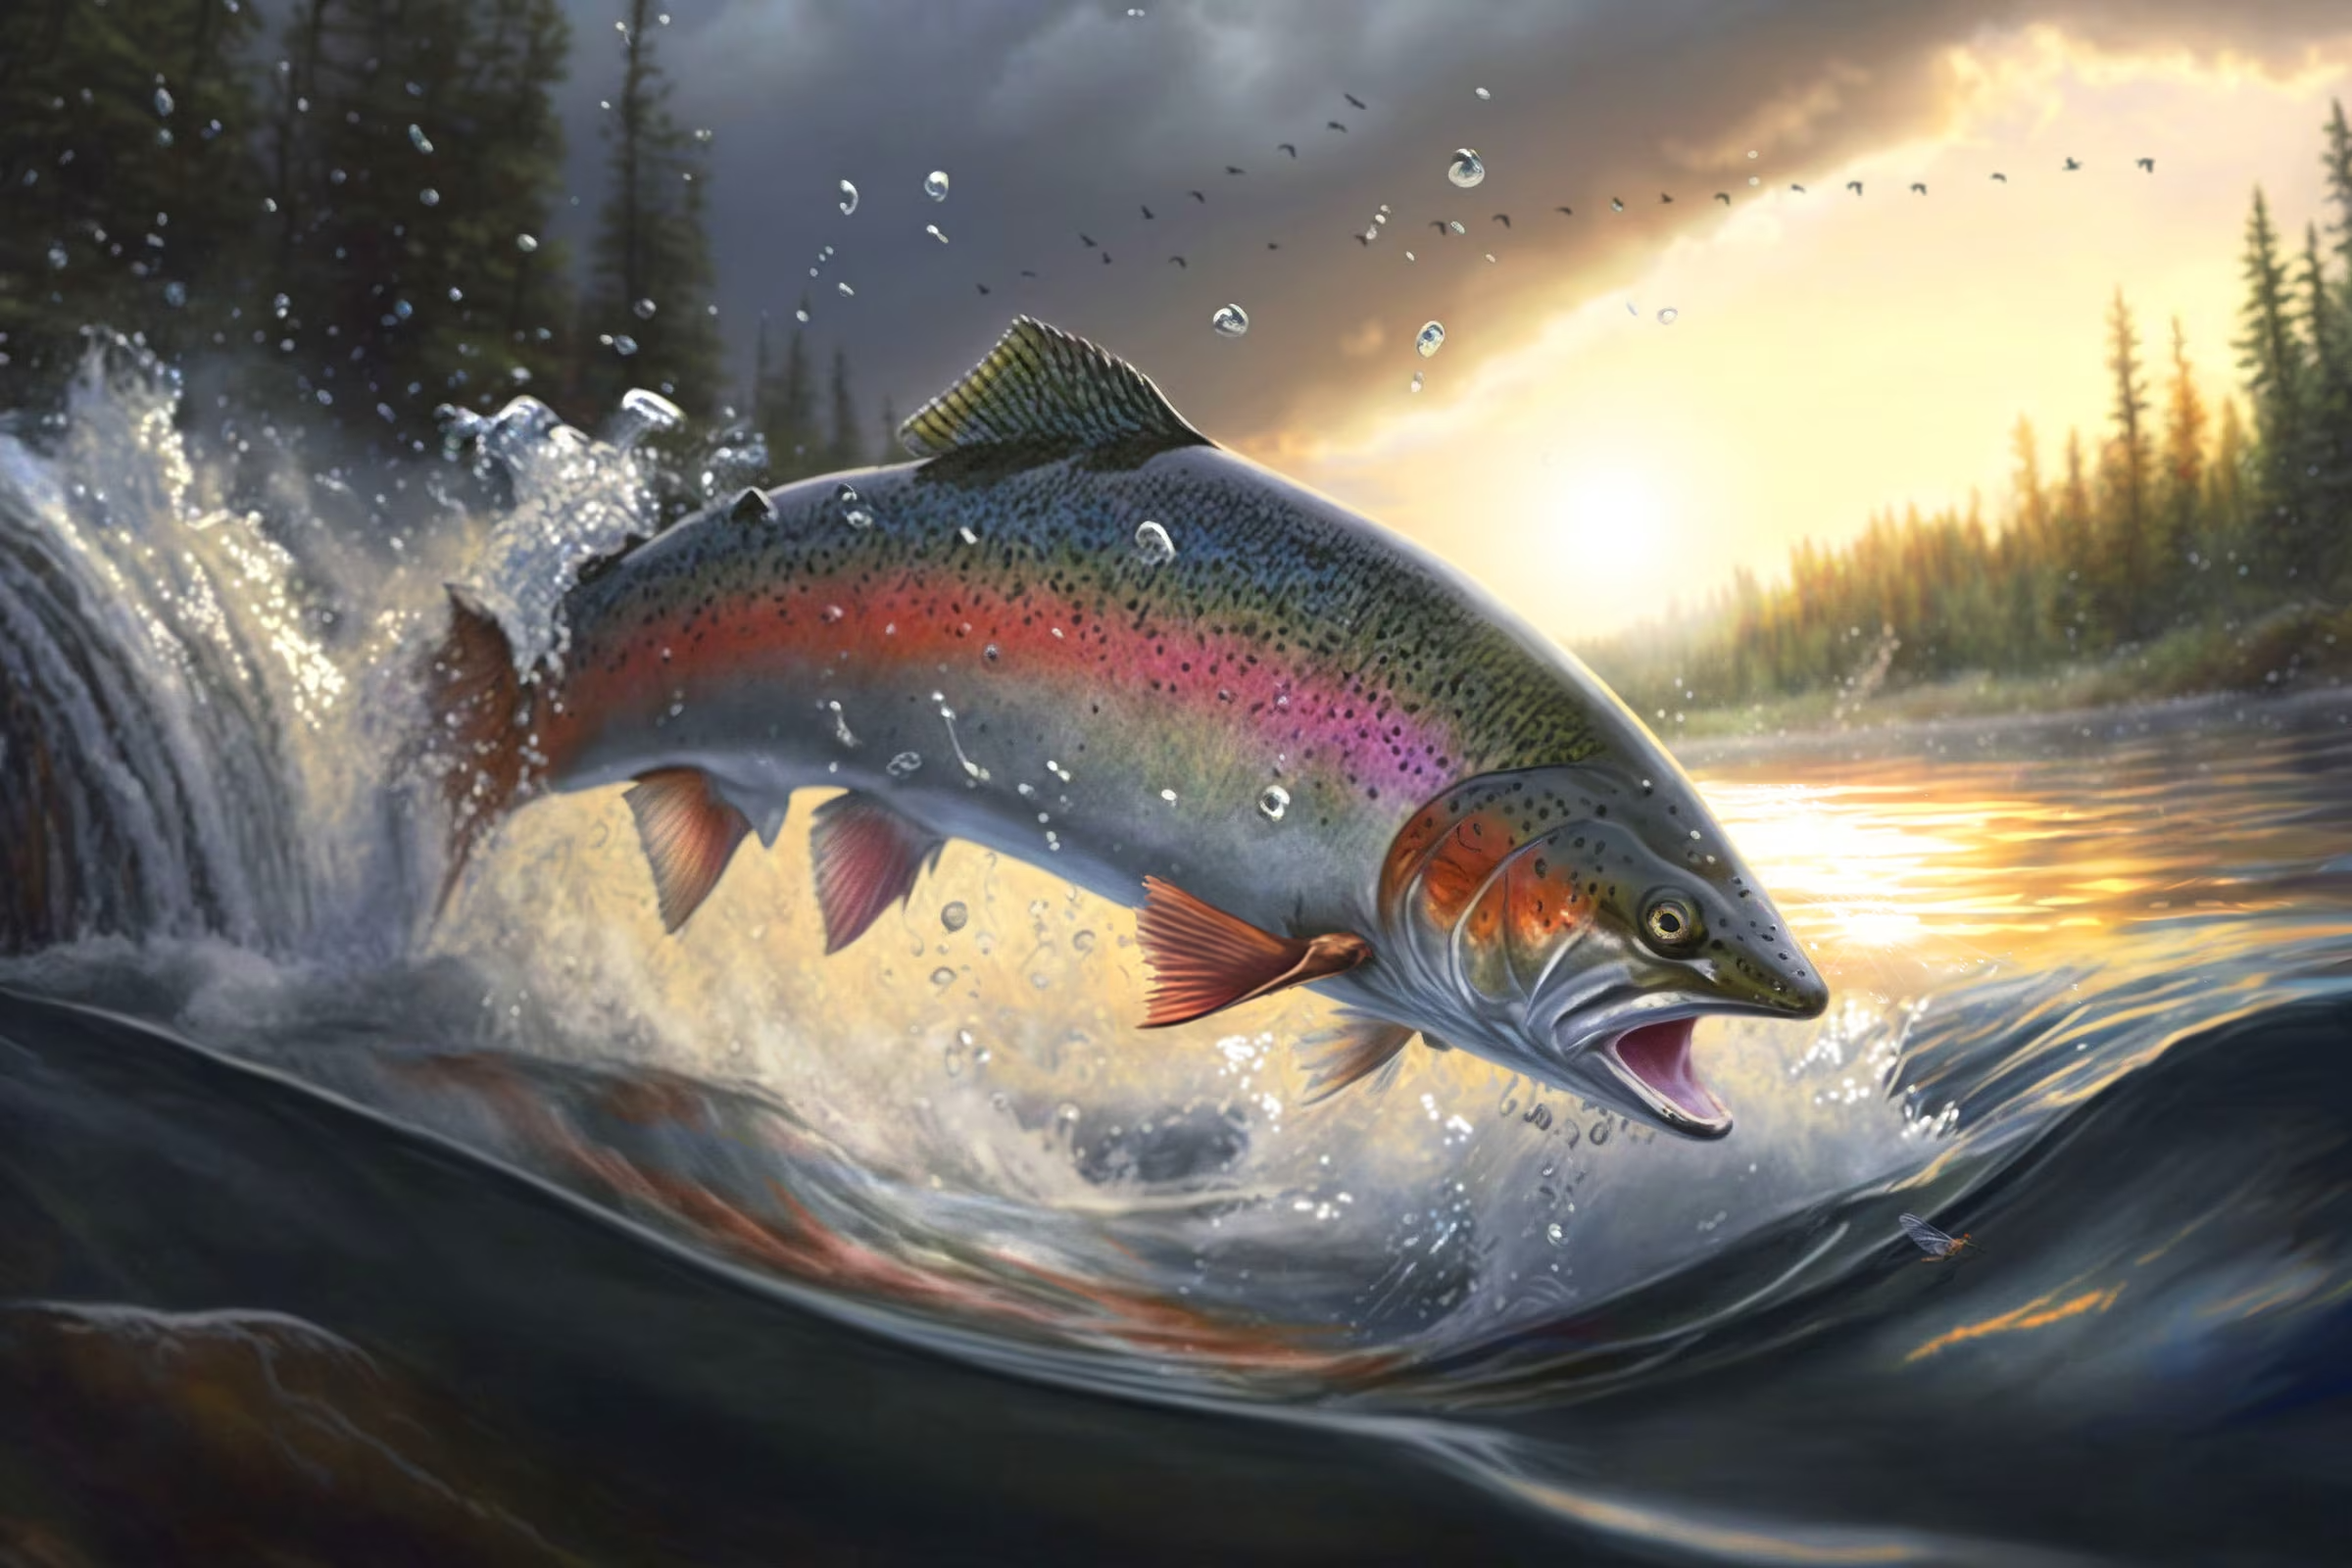
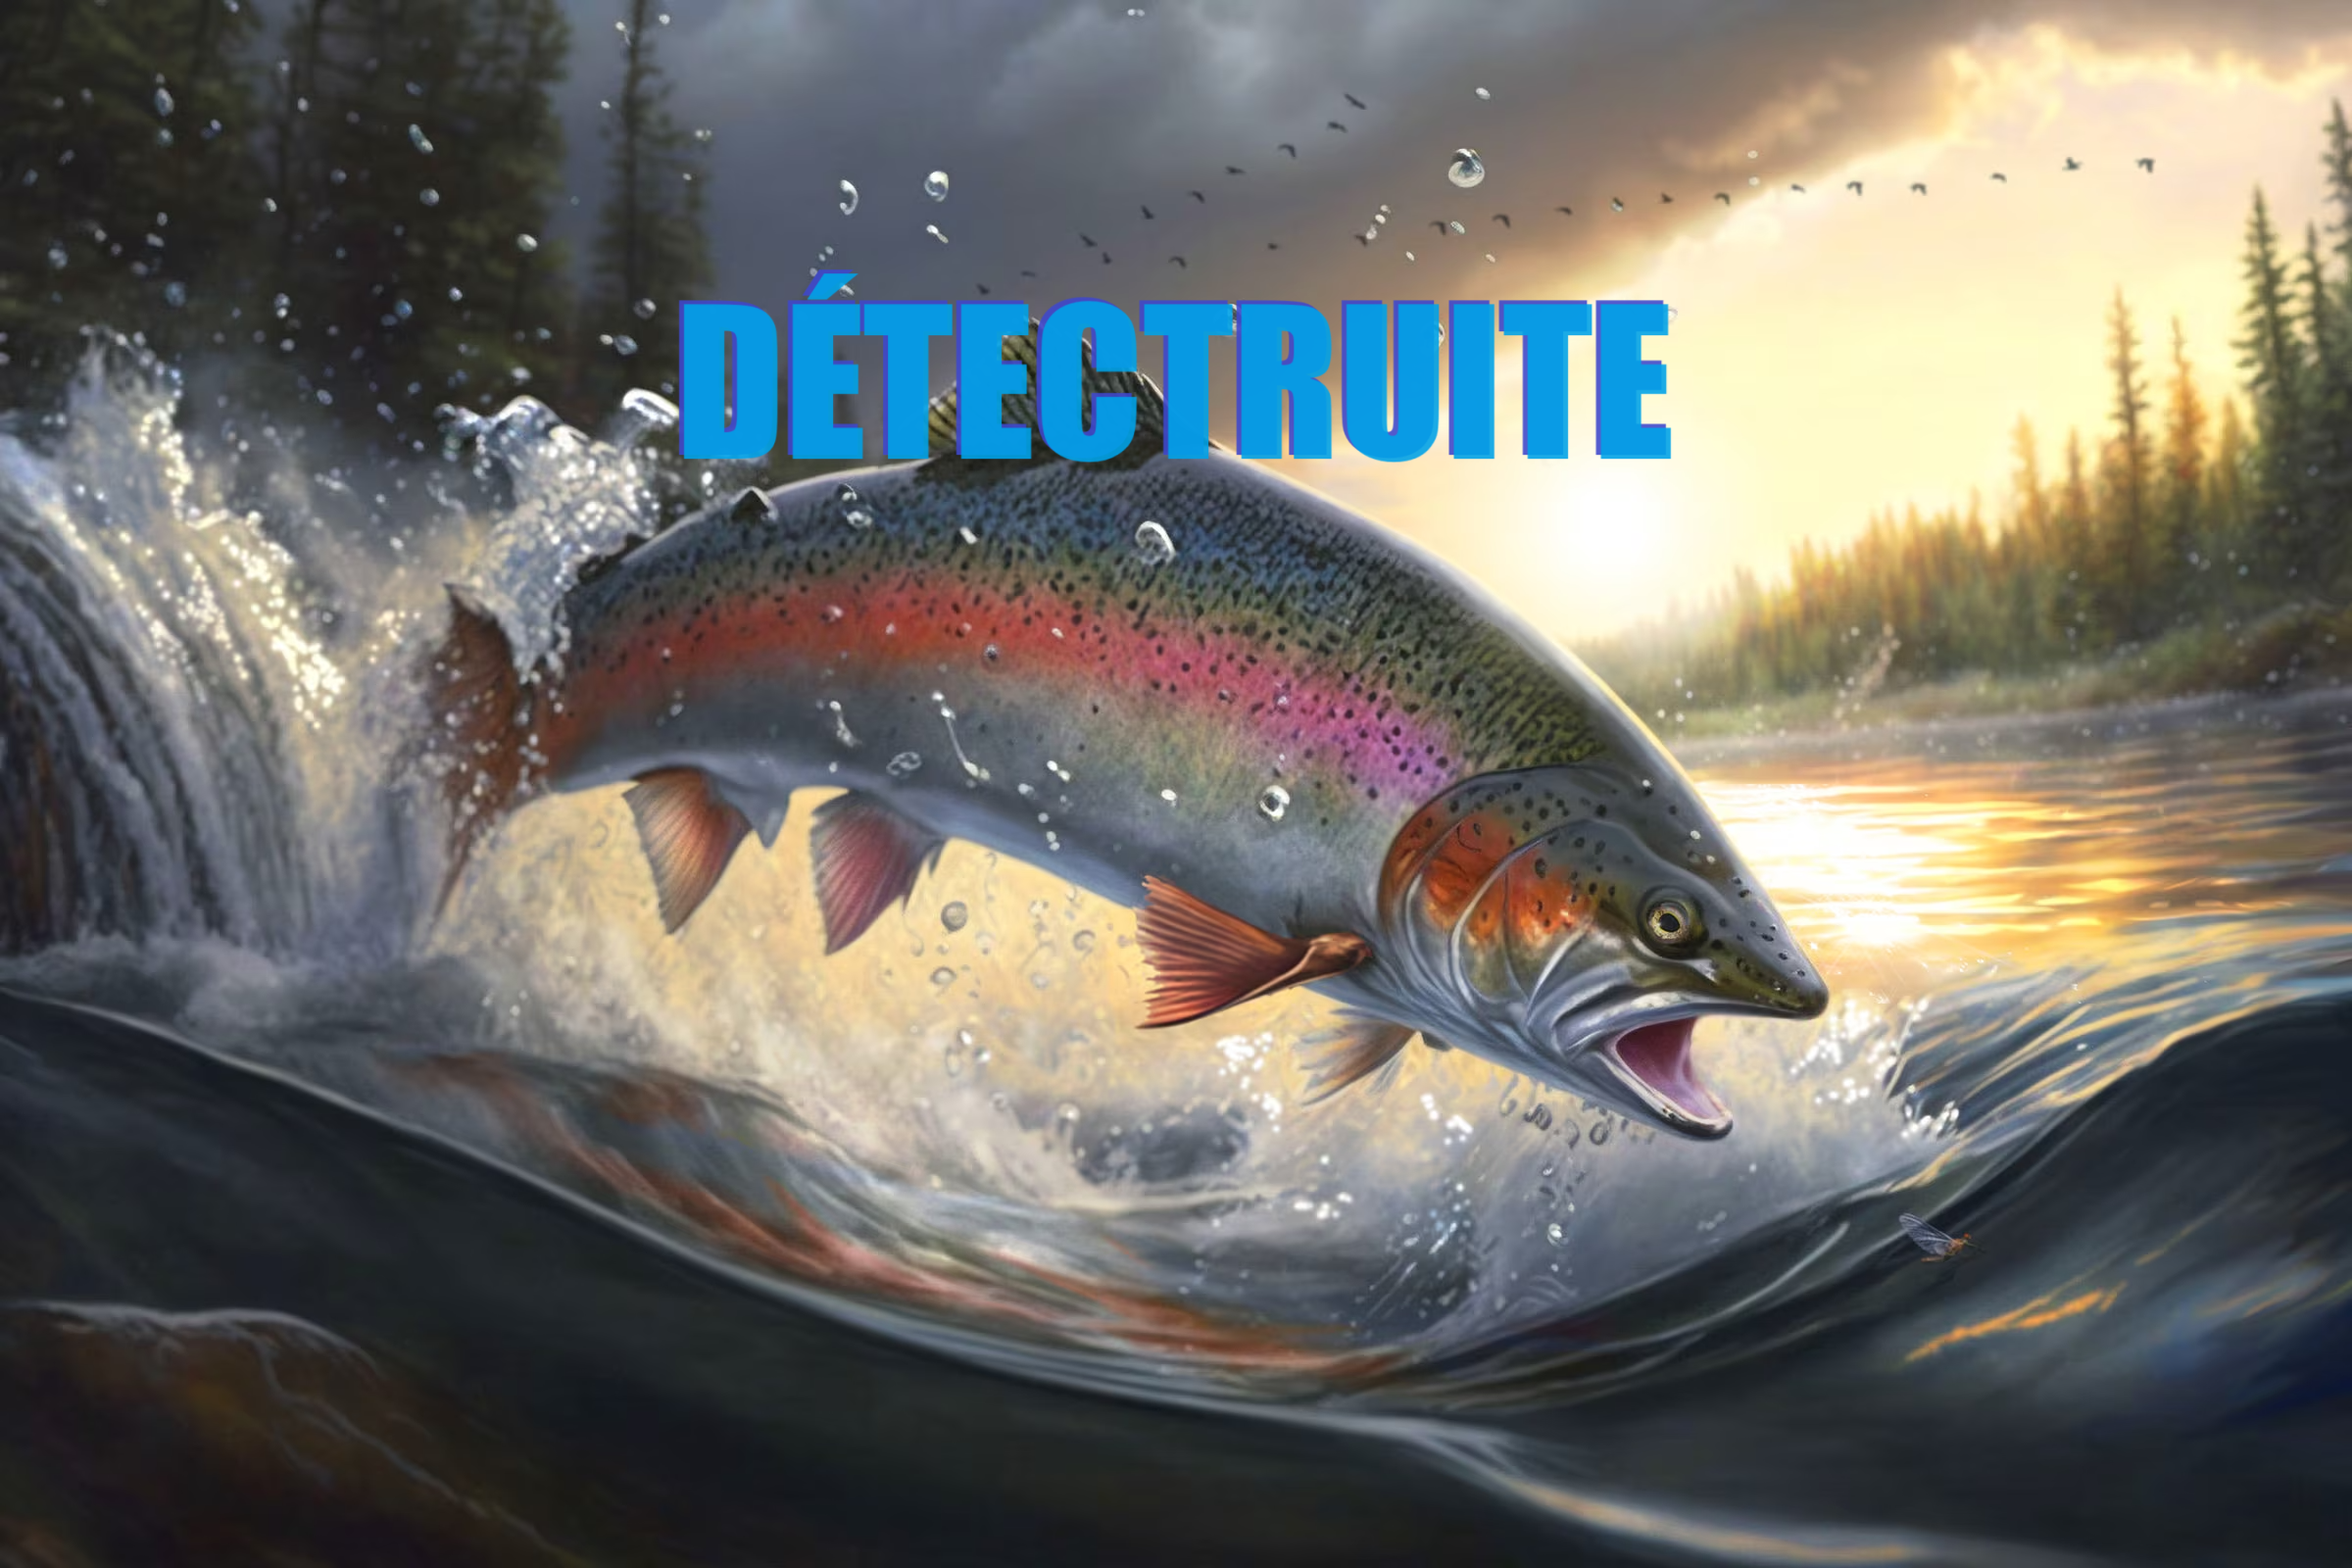
07/12/2023  09:18

Changed region(s): [[0.2812, 0.1562, 0.7188, 0.3125]]

diff --git a/code detecte/Détectruite.py b/code detecte/Détectruite.py
@@ -160,19 +160,6 @@ style.configure("TButton",
 #Cadre pour contenir les boutons
 frame = ttk.Frame(window1)
 
-#Chargement de l'image pour le background (style)
-background_but = Image.open(f"{repertoire}/image/button.jpg")
-background_but = background_but.resize((150, 100))
-background_button = ImageTk.PhotoImage(background_but)
-
-#Widget pour afficher l'image en background
-background_label = ttk.Label(frame, image=background_button)
-background_label.place(x=0, y=-20, relwidth=1, relheight=1.5, anchor="nw", rely=-0.35)
-
-#Titre
-title_label = ttk.Label(frame, text="Détectruite", font=("Arial", 16))
-title_label.grid(row=0, column=0, columnspan=3, pady=(50, 10))
-
 #Création des boutons
 button1 = ttk.Button(frame, text="Vidéo", command=on_button1_click)
 
